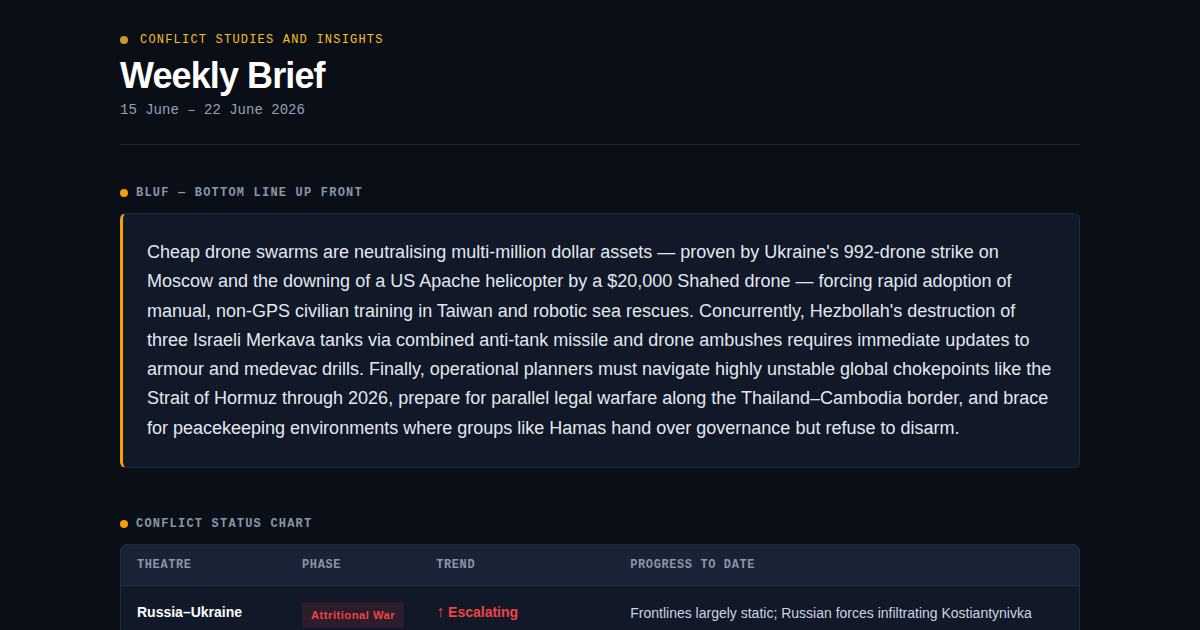
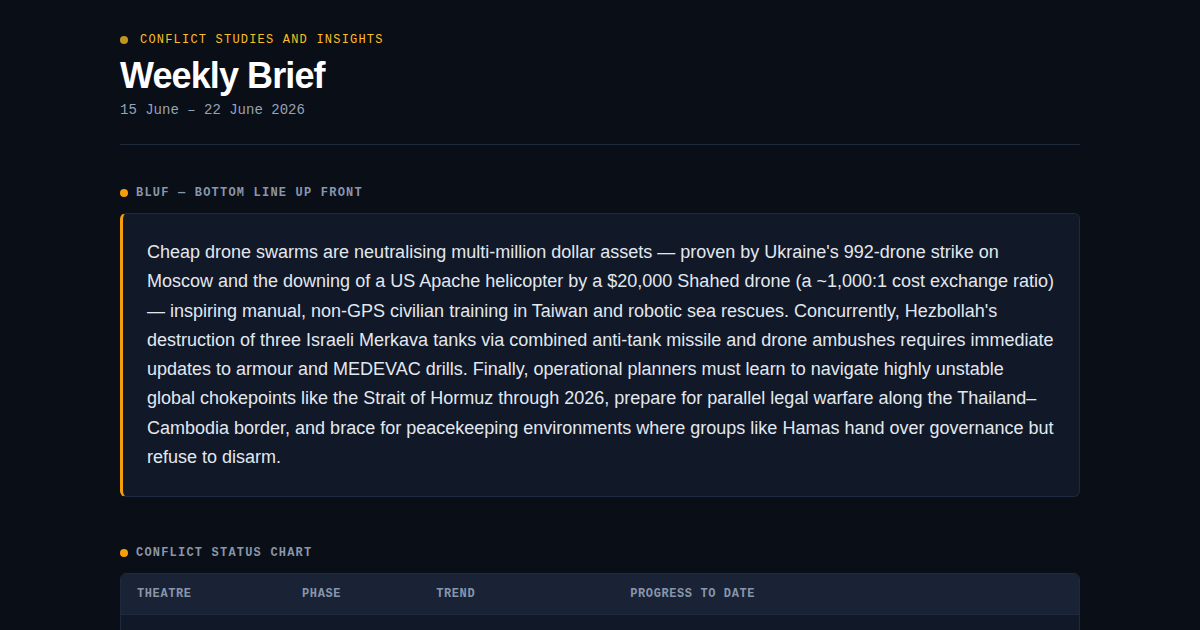
Add files via upload

Changed region(s): [[0.1233, 0.4222, 0.8942, 0.754], [0.0925, 0.8143, 0.925, 1.0]]

diff --git a/15-22-jun-2026.html b/15-22-jun-2026.html
@@ -308,7 +308,7 @@
     <h2 class="font-mono text-xs tracking-widest uppercase mb-3" style="color:#8896aa;"><span class="sec-dot" style="background:#f59e0b"></span>BLUF — Bottom Line Up Front</h2>
         <div class="rounded-md p-5 sm-p-6" style="background:#111827; border:1px solid #1e2a3f; border-left:3px solid #f59e0b;">
       <p class="text-base sm-text-lg leading-relaxed" style="color:#e2e8f0;">
-        Cheap drone swarms are neutralising multi-million dollar assets — proven by Ukraine's 992-drone strike on Moscow and the downing of a US Apache helicopter by a $20,000 Shahed drone — forcing rapid adoption of manual, non-GPS civilian training in Taiwan and robotic sea rescues. Concurrently, Hezbollah's destruction of three Israeli Merkava tanks via combined anti-tank missile and drone ambushes requires immediate updates to armour and medevac drills. Finally, operational planners must navigate highly unstable global chokepoints like the Strait of Hormuz through 2026, prepare for parallel legal warfare along the Thailand–Cambodia border, and brace for peacekeeping environments where groups like Hamas hand over governance but refuse to disarm.
+        Cheap drone swarms are neutralising multi-million dollar assets — proven by Ukraine's 992-drone strike on Moscow and the downing of a US Apache helicopter by a $20,000 Shahed drone (a ~1,000:1 cost exchange ratio) — inspiring manual, non-GPS civilian training in Taiwan and robotic sea rescues. Concurrently, Hezbollah's destruction of three Israeli Merkava tanks via combined anti-tank missile and drone ambushes requires immediate updates to armour and MEDEVAC drills. Finally, operational planners must learn to navigate highly unstable global chokepoints like the Strait of Hormuz through 2026, prepare for parallel legal warfare along the Thailand–Cambodia border, and brace for peacekeeping environments where groups like Hamas hand over governance but refuse to disarm.
       </p>
     </div>
   </section>
@@ -480,7 +480,8 @@
         <div>
           <div class="flex items-center gap-2 mb-15"><span class="pill">C2</span><span class="pill">Legal Warfare</span></div>
           <div class="font-semibold mb-15" style="color:#ffffff;">Thailand's anti-drone centre signals dual-track land-and-legal response</div>
-          <p class="leading-relaxed" style="color:#cbd5e1;">Thailand formally entered the UNCLOS legal process by appointing its conciliators, and it approved a national anti-drone centre for border security. These two moves run simultaneously — one fights the dispute in court, the other prepares the border on the ground. A 30-day countdown is now running for the five-member UNCLOS commission to elect a chairperson (deadline ~16 July). At the same time, Cambodia used the 36th UNCLOS States Parties meeting (15–18 June, New York) to publicly explain its case to 171 countries — building international support for its legal position while Thailand was still appointing its conciliators. The bottom line: the physical shooting has stopped, but the real contest has moved to the legal and diplomatic arena.</p>
+          <p class="leading-relaxed" style="color:#cbd5e1;">Thailand formally entered the UNCLOS legal process by appointing its conciliators, and it approved a national anti-drone centre for border security. By setting up the National Anti-Drone Centre specifically targeting border provinces (like Si Sa Ket and Surin) alongside the UNCLOS track, Thailand is signalling that it will engage in the legal process at sea, but will not allow Cambodia to use asymmetric tactics — like the drone swarms seen earlier this year — to gain leverage on the land border while arbitration is underway. Following bilateral breakdowns — where territorial friction led Bangkok to unilaterally scrap the 2001 Overlapping Claims Area (OCA) MOU — the distinct disputes have politically fused.</p>
+          <p class="leading-relaxed" style="color:#cbd5e1; margin-top:1rem;">At the same time, Cambodia used the 36th UNCLOS States Parties meeting (15–18 June, New York) to publicly explain its case to 171 countries — building international support for its legal position while Thailand was still appointing its conciliators. The bottom line: the physical shooting has stopped, but the real contest has moved to the legal and diplomatic arena.</p>
         </div>
       </div>
       <div class="mt-6 pl-4" style="border-left:2px solid rgba(245,158,11,0.55);">

diff --git a/index.html b/index.html
@@ -308,7 +308,7 @@
     <h2 class="font-mono text-xs tracking-widest uppercase mb-3" style="color:#8896aa;"><span class="sec-dot" style="background:#f59e0b"></span>BLUF — Bottom Line Up Front</h2>
         <div class="rounded-md p-5 sm-p-6" style="background:#111827; border:1px solid #1e2a3f; border-left:3px solid #f59e0b;">
       <p class="text-base sm-text-lg leading-relaxed" style="color:#e2e8f0;">
-        Cheap drone swarms are neutralising multi-million dollar assets — proven by Ukraine's 992-drone strike on Moscow and the downing of a US Apache helicopter by a $20,000 Shahed drone — forcing rapid adoption of manual, non-GPS civilian training in Taiwan and robotic sea rescues. Concurrently, Hezbollah's destruction of three Israeli Merkava tanks via combined anti-tank missile and drone ambushes requires immediate updates to armour and medevac drills. Finally, operational planners must navigate highly unstable global chokepoints like the Strait of Hormuz through 2026, prepare for parallel legal warfare along the Thailand–Cambodia border, and brace for peacekeeping environments where groups like Hamas hand over governance but refuse to disarm.
+        Cheap drone swarms are neutralising multi-million dollar assets — proven by Ukraine's 992-drone strike on Moscow and the downing of a US Apache helicopter by a $20,000 Shahed drone (a ~1,000:1 cost exchange ratio) — inspiring manual, non-GPS civilian training in Taiwan and robotic sea rescues. Concurrently, Hezbollah's destruction of three Israeli Merkava tanks via combined anti-tank missile and drone ambushes requires immediate updates to armour and MEDEVAC drills. Finally, operational planners must learn to navigate highly unstable global chokepoints like the Strait of Hormuz through 2026, prepare for parallel legal warfare along the Thailand–Cambodia border, and brace for peacekeeping environments where groups like Hamas hand over governance but refuse to disarm.
       </p>
     </div>
   </section>
@@ -480,7 +480,8 @@
         <div>
           <div class="flex items-center gap-2 mb-15"><span class="pill">C2</span><span class="pill">Legal Warfare</span></div>
           <div class="font-semibold mb-15" style="color:#ffffff;">Thailand's anti-drone centre signals dual-track land-and-legal response</div>
-          <p class="leading-relaxed" style="color:#cbd5e1;">Thailand formally entered the UNCLOS legal process by appointing its conciliators, and it approved a national anti-drone centre for border security. These two moves run simultaneously — one fights the dispute in court, the other prepares the border on the ground. A 30-day countdown is now running for the five-member UNCLOS commission to elect a chairperson (deadline ~16 July). At the same time, Cambodia used the 36th UNCLOS States Parties meeting (15–18 June, New York) to publicly explain its case to 171 countries — building international support for its legal position while Thailand was still appointing its conciliators. The bottom line: the physical shooting has stopped, but the real contest has moved to the legal and diplomatic arena.</p>
+          <p class="leading-relaxed" style="color:#cbd5e1;">Thailand formally entered the UNCLOS legal process by appointing its conciliators, and it approved a national anti-drone centre for border security. By setting up the National Anti-Drone Centre specifically targeting border provinces (like Si Sa Ket and Surin) alongside the UNCLOS track, Thailand is signalling that it will engage in the legal process at sea, but will not allow Cambodia to use asymmetric tactics — like the drone swarms seen earlier this year — to gain leverage on the land border while arbitration is underway. Following bilateral breakdowns — where territorial friction led Bangkok to unilaterally scrap the 2001 Overlapping Claims Area (OCA) MOU — the distinct disputes have politically fused.</p>
+          <p class="leading-relaxed" style="color:#cbd5e1; margin-top:1rem;">At the same time, Cambodia used the 36th UNCLOS States Parties meeting (15–18 June, New York) to publicly explain its case to 171 countries — building international support for its legal position while Thailand was still appointing its conciliators. The bottom line: the physical shooting has stopped, but the real contest has moved to the legal and diplomatic arena.</p>
         </div>
       </div>
       <div class="mt-6 pl-4" style="border-left:2px solid rgba(245,158,11,0.55);">
